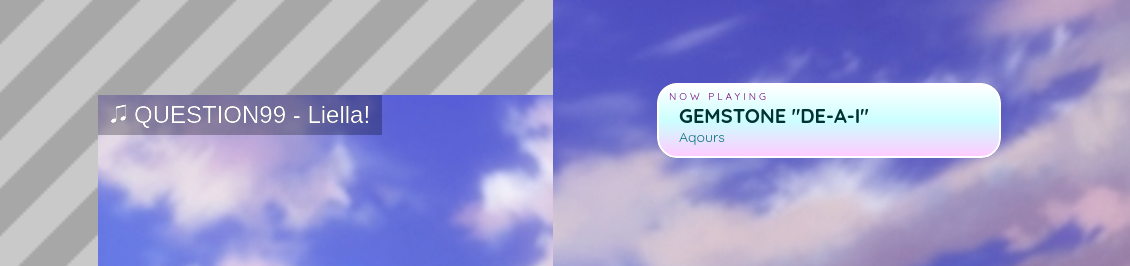
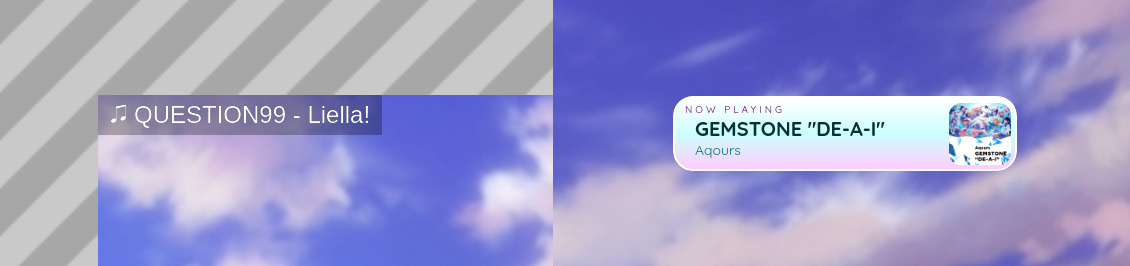
Update README

diff --git a/README.md b/README.md
@@ -6,10 +6,8 @@ Made primarily for streaming, so you can have a "Now Playing" overlay if you use
 
 ![Example screenshot of two stream overlays that can be created in OBS using this extension](example.png?raw=true)
 
-## Currently Supported Sites
-
-- YouTube
-- Spotify
+Any sites that use MediaMetadata will work with this extension. This includes, for example, YouTube, Spotify and
+Soundcloud.
 
 ## Installation
 
@@ -50,9 +48,11 @@ icon again, close the tab, refresh or leave the page. If the badge is white inst
 active in another tab - click the icon to go to the tracked tab.
 
 Try playing a song or video - if it everything is set up correctly, you should see two new files, `nowplaying.txt` and
-`nowplaying.html`, created in the same folder as the application. From now on, all you need to do to start using your
-Now Playing overlay is click the extension icon - no need to start a application in the background or update the
-configuration, just the browser is enough!
+`nowplaying.html`, created in the same folder as the application. If nothing happens, the site you use might not support
+MediaMetadata, so try one of the sites mentioned above to test.
+
+From now on, all you need to do to start using your Now Playing overlay is click the extension icon - no need to start
+an application in the background or update the configuration, just the browser is enough!
 
 You have two ways of using this extension with OBS:
 
@@ -68,9 +68,8 @@ If you'd like to be more flexible with styling, you can use a Browser source to 
 Create a Browser source in OBS, check "Local File", and choose the HTML file in the application's folder.
 
 You can now use the CSS field in the configuration tool to fully style the overlay however you want, by writing CSS
-rules for the `#nowplaying` selector to style the container around all of the text, and `#title` and `#artist` selectors
-to style just those values. Note that the HTML file won't update until the song changes while the Firefox extension is
-active!
+rules for the `#nowplaying` selector to style the container around all of the text, the `#title`, `#artist` and `#album` selectors to style just those values, and the `#artwork` selector to position the cover art. Note that the HTML file
+won't update until the song changes while the Firefox extension is active!
 
 Be warned that the "Custom CSS" option in the Browser source might lead to flickering, since that CSS block is loaded
 with a slight delay after each refresh. But you can still use it for just trying out styles, and then simply copy it
@@ -92,9 +91,10 @@ Here's the CSS used for the example screenshots at the top, to give you a start:
 ```
 
 ```css
-/* Text Format: "{$title$}{$artist$}" */
+/* Text Format: "{$title$}{$artist$}{$artwork$}" */
 
 #nowplaying {
+	position: relative;
 	width: 300px;
 	display: flex;
 	flex-direction: column;
@@ -122,5 +122,12 @@ Here's the CSS used for the example screenshots at the top, to give you a start:
 #artist {
 	color: #007777;
 	font-size: 14px;
+}
+
+#artwork {
+	position: absolute;
+	right: 4px;
+	height: 62px;
+	border-radius: 12px;
 }
 ```
